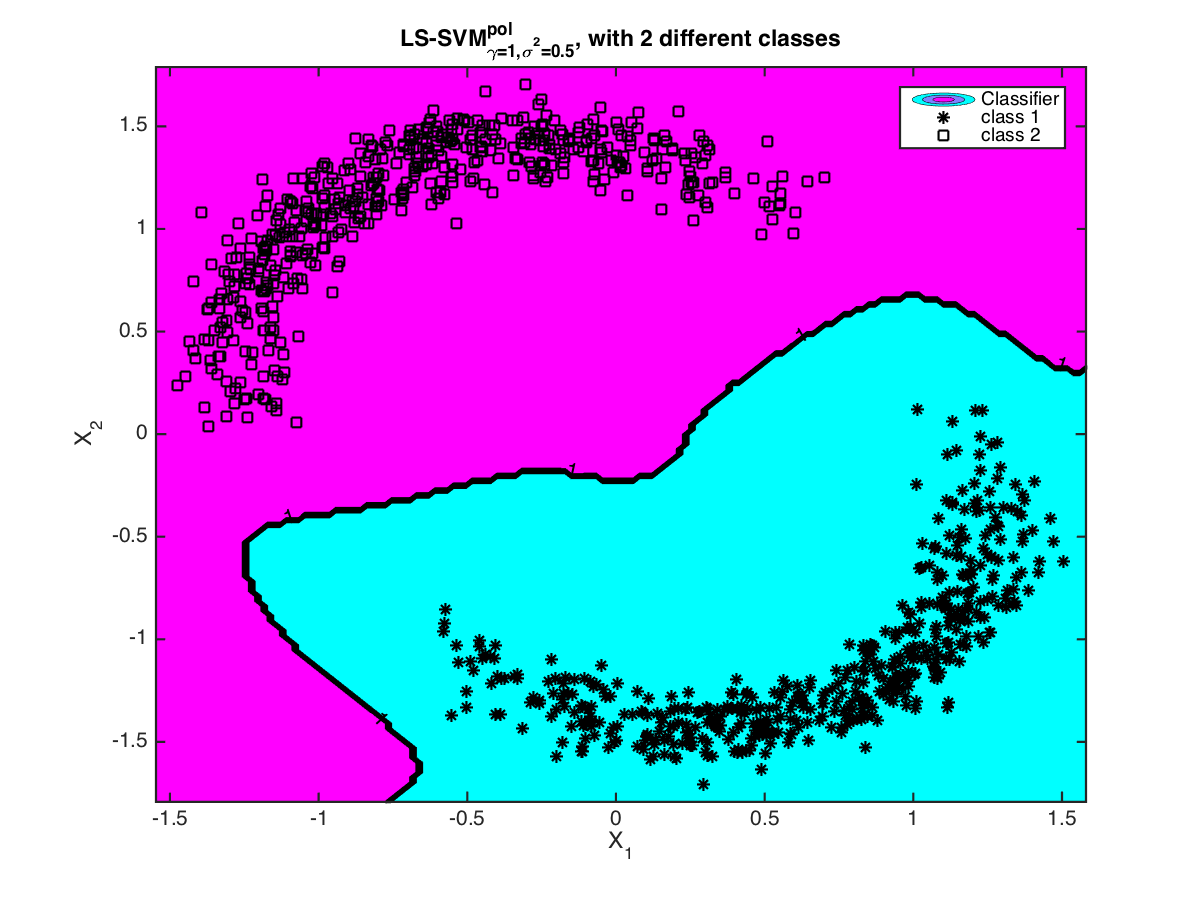
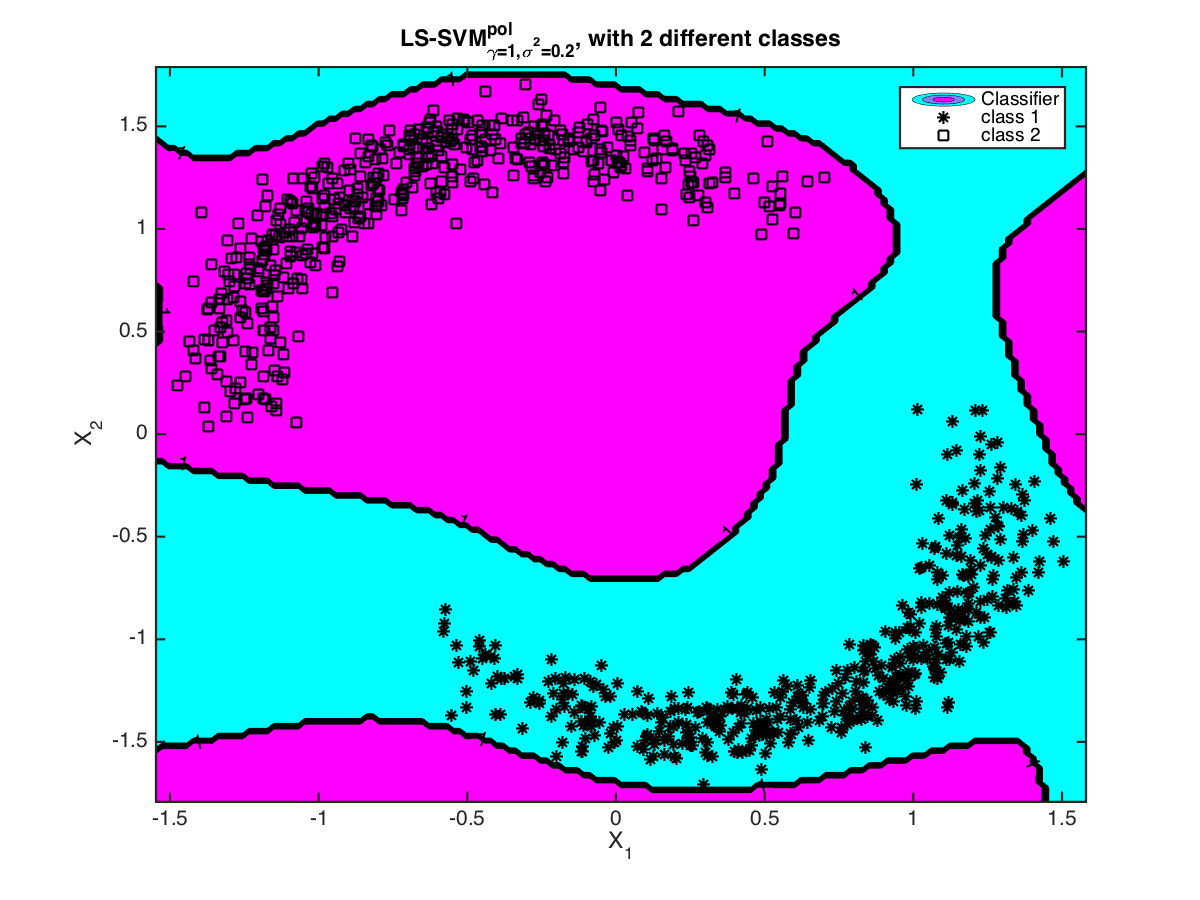
Fixes sigma

diff --git a/assignment4/a4pB.m b/assignment4/a4pB.m
@@ -18,11 +18,11 @@ for i = 1:length(kernels)
         % for gam low minimizing of the
         % complexity of the model is emphasized, for gam high, good fitting
         % of the training data points is stressed.
-        gam = 10;
+        gam = 1;
 
         if strcmp(kernel, 'poly_kernel')
             degree = 10;
-            highlowbalance = 0.5;
+            highlowbalance = 0.2;
             model = {X,Y,type,gam,[highlowbalance degree],kernel};
 
         elseif strcmp(kernel, 'RBF_kernel')

diff --git a/assignment4/a4pC.m b/assignment4/a4pC.m
@@ -15,7 +15,7 @@ gam = 1;
 
 if strcmp(kernel, 'poly_kernel')
     degree = 10;
-    highlowbalance = 0.5;
+    highlowbalance = 0.2;
     model = {X,Y,type,gam,[highlowbalance degree],kernel};
    
 elseif strcmp(kernel, 'RBF_kernel')
